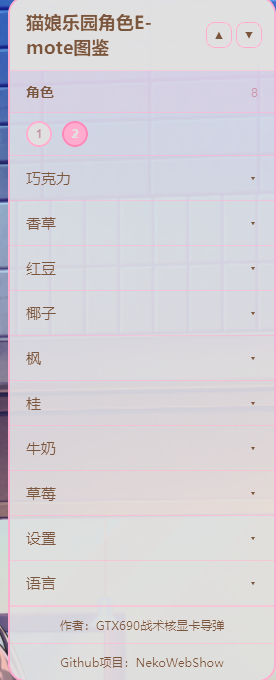
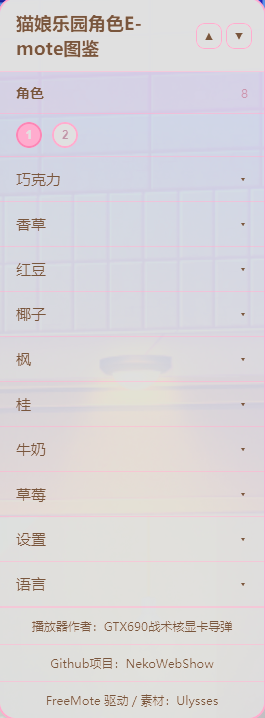
Add files via upload

diff --git a/locales.js b/locales.js
@@ -21,7 +21,7 @@ const translations = {
         'pageTitle': 'NEKOPARA Character E-mote Gallery',
         'loading': 'Loading...',
         'characterLoadError': 'Unable to load character. Please retry.',
-        'by': 'By:',
+        'by': 'Player by:',
         'githubProject': 'Github Project:',
         
         // 角色名称
@@ -99,7 +99,7 @@ const translations = {
         'pageTitle': '猫娘乐园角色E-mote图鉴',
         'loading': '加载中...',
         'characterLoadError': '角色加载失败，请重试。',
-        'by': '作者：',
+        'by': '播放器作者：',
         'githubProject': 'Github项目：',
         
         // 角色名称
@@ -177,7 +177,7 @@ const translations = {
         'pageTitle': '貓娘樂園角色E-mote圖鑑',
         'loading': '載入中...',
         'characterLoadError': '角色載入失敗，請重新載入。',
-        'by': '作者：',
+        'by': '播放器作者：',
         'githubProject': 'Github專案：',
         
         // 角色名称
@@ -255,7 +255,7 @@ const translations = {
         'pageTitle': 'ネコぱらキャラクターE-mote図鑑',
         'loading': '読み込み中...',
         'characterLoadError': '読み込みに失敗しました。再読み込みしてください。',
-        'by': '作者：',
+        'by': 'プレイヤー作者：',
         'githubProject': 'Githubプロジェクト：',
         
         // 角色名称

diff --git a/index.html b/index.html
@@ -304,8 +304,9 @@
       </div>
     </div>
     <div id="character-status" role="status" aria-live="polite"></div>
-    <div class="infotext" data-i18n="by" data-i18n-params='{"author": "GTX690战术核显卡导弹"}'>By：<a href="https://www.nekopara.uk" target="_blank">GTX690战术核显卡导弹</a></div>
+    <div class="infotext" data-i18n="by" data-i18n-params='{"author": "GTX690战术核显卡导弹"}'>播放器作者：<a href="https://www.nekopara.uk" target="_blank">GTX690战术核显卡导弹</a></div>
     <div class="infotext" data-i18n="githubProject" data-i18n-params='{"project": "NekoWebShow"}'>Github Project: <a href="https://github.com/Chocola-X/NekoWebShow" target="_blank">NekoWebShow</a></div>
+<div class="infotext">FreeMote 驱动 / 素材：<a href="https://github.com/UlyssesWu" target="_blank">Ulysses</a></div>
   </div>
   <script src="ui.js" charset="UTF-8"></script>
   <script src="character-switcher.js" charset="UTF-8"></script>

diff --git a/NOTICE.md b/NOTICE.md
@@ -1,27 +1,61 @@
-# 第三方组件与素材声明
+# 贡献者与第三方组件声明
 
-## 代码
+## 按贡献者列出
 
-| 组件 | 版权 / 作者 | 许可证 | 来源 |
+### Ulysses（UlyssesWu / Ulysses-U大）
+
+| 贡献 | 说明 | 许可 |
+| --- | --- | --- |
+| FreeMote 工具链 | E-mote 模型解包与转换工具 | CC BY-NC-SA 4.0 |
+| FreeMote SDK v3.9（`driver/FreeMoteDriver.js`） | 本项目使用的 WebGL / asm.js 渲染驱动，文件头部即为其版权声明 | CC BY-NC-SA 4.0 |
+| 原始素材解包与整理 | 角色模型的首次解包 | — |
+| 《[猫娘动态壁纸 青春版](https://steamcommunity.com/sharedfiles/filedetails/?id=3752916624)》 | Wallpaper Engine 网页壁纸作品，本项目的素材链起点 | — |
+
+### GTX690战术核显卡导弹
+
+| 贡献 | 说明 | 许可 |
+| --- | --- | --- |
+| NekoWebShow | 网页版《猫娘乐园》E-mote 图鉴播放器，本项目的代码上游 | AGPL-3.0 |
+| 素材聚合 | 在 Ulysses 解包的基础上补充背景与新增立绘 | — |
+
+### felix-ji725
+
+| 贡献 | 说明 |
+| --- | --- |
+| Windows / Wallpaper Engine 适配 | `file://` 兼容层、`project.json`、双人模式、WE 交互适配、安装与素材获取脚本 |
+
+### NEKO WORKs
+
+所有角色、背景、语音素材的**原始版权方**（《猫娘乐园》）。
+
+## 代码与工具链组件表
+
+| 组件 | 作者 | 许可证 | 来源 |
 | --- | --- | --- | --- |
-| NekoWebShow（本项目的上游） | GTX690战术核显卡导弹 | AGPL-3.0 | https://github.com/Chocola-X/NekoWebShow |
-| FreeMote WebGL SDK（`driver/`） | Project-AZUSA / UlyssesWu | 见其仓库 | https://github.com/Project-AZUSA/FreeMote-SDK |
-| FreeMote（模型转换工具链） | UlyssesWu | CC BY-NC-SA 4.0（仓库声明） | https://github.com/UlyssesWu/FreeMote |
+| NekoWebShow（本项目上游） | GTX690战术核显卡导弹 | AGPL-3.0 | https://github.com/Chocola-X/NekoWebShow |
+| FreeMote SDK（`driver/FreeMoteDriver.js`） | **Ulysses** | CC BY-NC-SA 4.0 | https://github.com/Project-AZUSA/FreeMote-SDK |
+| FreeMote 工具链 | **Ulysses** | CC BY-NC-SA 4.0 | https://github.com/UlyssesWu/FreeMote |
 | fflate（`fflate.js`） | Arjun Barrett | MIT | https://github.com/101arrowz/fflate |
 
-`config/`、`locales.js` 等来自上游项目，随本项目一同以 AGPL-3.0 发布。
+## 素材来源链
 
-## 素材（本仓库不包含）
+| 环节 | 贡献者 |
+| --- | --- |
+| 原始素材 | © NEKO WORKs |
+| 解包与首次整理 | Ulysses |
+| 《猫娘动态壁纸 青春版》（Wallpaper Engine） | Ulysses |
+| 素材聚合与播放器 NekoWebShow | GTX690战术核显卡导弹 |
+| Windows / Wallpaper Engine 适配（本项目） | felix-ji725 |
 
-| 资产 | 版权 | 说明 |
-| --- | --- | --- |
-| 角色 E-mote 模型（`data/*.pure.psb.zip`） | © NEKO WORKs | 《猫娘乐园》游戏素材 |
-| 背景图（`background/`） | © NEKO WORKs | 游戏 CG 与场景 |
-| 语音（`sounds/`） | © NEKO WORKs | 游戏语音 |
+**说明**：本项目所引用的素材，其解包与整理工作源自 Ulysses；此前仅致谢了 NekoWebShow 作者，未注明 Ulysses 的贡献，现已更正。素材不全由同一来源，其余部分由上游作者后续补充，具体范围本项目无法核实。
 
-这些素材由上游作者从游戏中提取并用于其演示站点。本仓库**不包含**它们，`.gitignore` 已排除，用户需自行准备（见 README）。
+本仓库**不包含**任何素材（`data/`、`background/`、`sounds/` 已由 `.gitignore` 排除），用户需自行准备（见 README）。
 
-任何将上述素材再分发的行为，均由分发者自行承担版权责任，不受本项目 AGPL-3.0 许可的覆盖。
+## 许可说明
+
+- 本项目代码以 **GNU AGPL-3.0** 发布
+- 其中 `driver/FreeMoteDriver.js` 为 **CC BY-NC-SA 4.0**，该许可**禁止商业使用**
+- 因此本项目**整体仅限非商业用途**；如需商用，需分别获得 Ulysses 与 GTX690 的授权
 
 ## 商标
 

diff --git a/README.md b/README.md
@@ -67,7 +67,7 @@
 
 `data/`、`background/`、`sounds/` **不随本仓库分发**。
 
-这些是《猫娘乐园》的游戏素材，版权归 **NEKO WORKs**，不属于上游作者，也不属于本项目。请自行准备，仅限个人自用，**请勿再分发**。
+这些是《猫娘乐园》的游戏素材，版权归 **NEKO WORKs**，不属于上游作者，也不属于本项目。其中部分素材的解包与整理来自 **Ulysses**（[FreeMote](https://github.com/UlyssesWu/FreeMote) 工具链、《猫娘动态壁纸 青春版》）。请自行准备，仅限个人自用，**请勿再分发**。
 
 获取方式：打开上游仓库 <https://github.com/Chocola-X/NekoWebShow> → `Code` → `Download ZIP`，解压后取其中 `data/`、`background/`、`sounds/` 三个目录。
 
@@ -108,9 +108,21 @@ WE 不把 `wheel` 事件转发给 web 壁纸。用右侧粉色滚动条，或标
 
 ## 致谢
 
-- [NekoWebShow](https://github.com/Chocola-X/NekoWebShow) — 上游播放器，AGPL-3.0
-- [FreeMote](https://github.com/UlyssesWu/FreeMote) 与 [FreeMote-SDK](https://github.com/Project-AZUSA/FreeMote-SDK) — E-mote 解包与 WebGL 驱动
-- [fflate](https://github.com/101arrowz/fflate) — 解压，MIT
-- 《猫娘乐园》素材版权归 **NEKO WORKs**
+**Ulysses**（[UlyssesWu](https://github.com/UlyssesWu)）
 
-本项目以 [GNU AGPL-3.0](LICENSE) 发布。与 NEKO WORKs、Wallpaper Engine 开发商均无关联。
+- [FreeMote](https://github.com/UlyssesWu/FreeMote) 工具链 —— E-mote 解包与转换
+- [FreeMote SDK](https://github.com/Project-AZUSA/FreeMote-SDK) v3.9 —— 本项目使用的 WebGL 渲染驱动（`driver/FreeMoteDriver.js`）
+- 角色素材的首次解包与整理
+- Wallpaper Engine 作品《[猫娘动态壁纸 青春版](https://steamcommunity.com/sharedfiles/filedetails/?id=3752916624)》
+
+**GTX690战术核显卡导弹**
+
+- [NekoWebShow](https://github.com/Chocola-X/NekoWebShow) —— 网页版播放器，本项目的上游（AGPL-3.0）
+- 在 Ulysses 解包基础上补充背景与新增立绘
+
+**其它**
+
+- [fflate](https://github.com/101arrowz/fflate) —— 解压，MIT
+- 《猫娘乐园》素材原始版权归 **NEKO WORKs**
+
+本项目代码以 [GNU AGPL-3.0](LICENSE) 发布。其中 `driver/FreeMoteDriver.js` 为 **CC BY-NC-SA 4.0**（禁止商业使用），因此**本项目整体仅限非商业用途**。与 NEKO WORKs、Wallpaper Engine 开发商均无关联。
